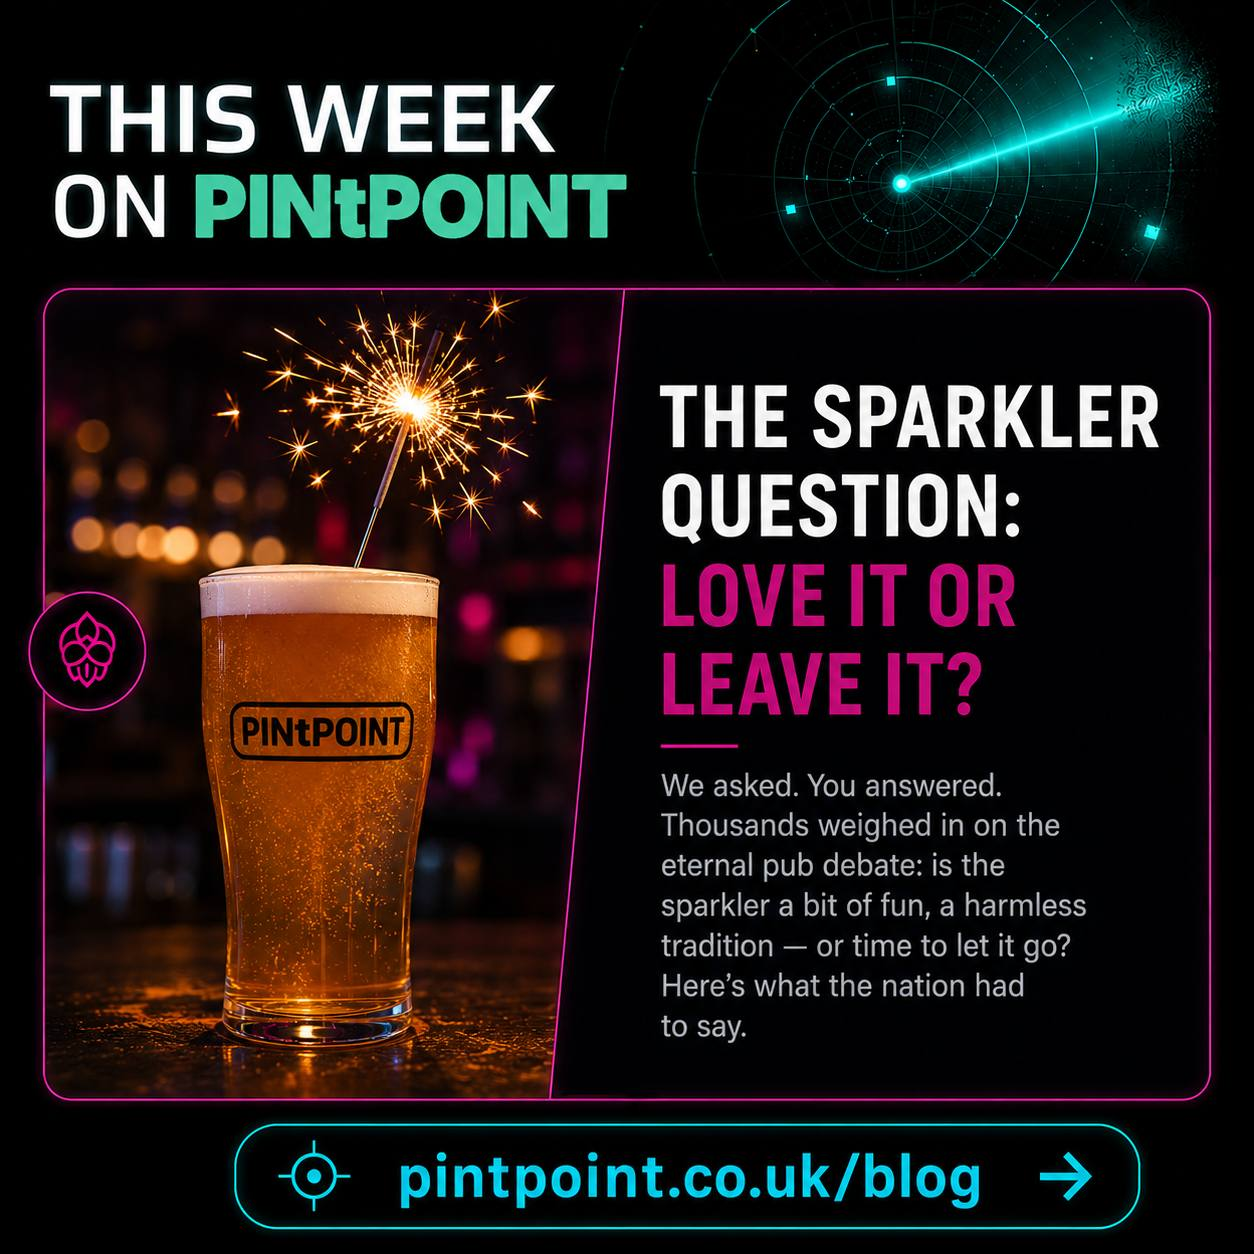
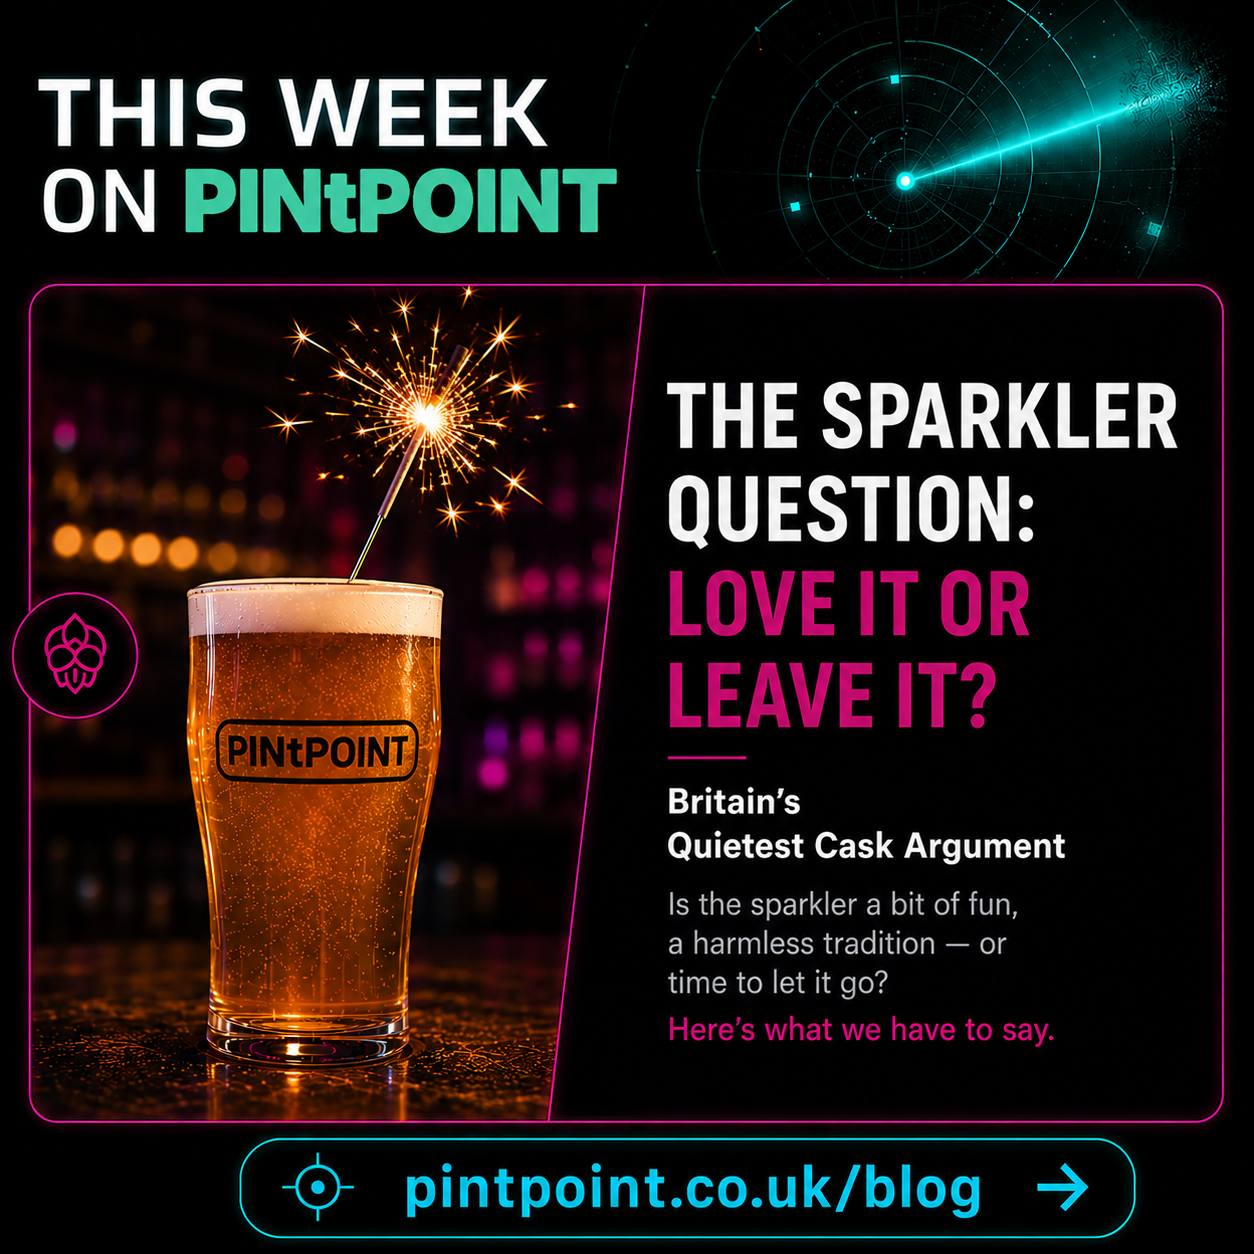
sparkler post: refresh card art (Britain's Quietest Cask Argument framing)
Card v2 swaps the bait-and-switch 'we asked / thousands weighed in' poll
copy for the actual essay framing — 'Britain's Quietest Cask Argument'
+ 'Here's what we have to say'. Matches body content (Southerner's
field guide, not poll results). Updated og:image:alt to match.

diff --git a/blog/the-sparkler-question.html b/blog/the-sparkler-question.html
@@ -14,7 +14,7 @@
   <meta property="og:title" content="The Sparkler Question — A Southerner's Field Guide" />
   <meta property="og:description" content="A small nozzle. A 140-year argument. The Whippet reposted Timothy Taylor's piece this week. A Southerner who's read about sparklers for years finally has somewhere in London to taste one." />
   <meta property="og:image" content="https://pintpoint.co.uk/blog/images/the-sparkler-question.jpg" />
-  <meta property="og:image:alt" content="This Week on PINtPOINT — The Sparkler Question: Love It or Leave It? A pint of cask ale with a lit sparkler in the head, PINtPOINT-typeset." />
+  <meta property="og:image:alt" content="This Week on PINtPOINT — The Sparkler Question: Love It or Leave It? Britain's Quietest Cask Argument. A pint of cask ale with a lit sparkler in the head, PINtPOINT-typeset." />
   <meta property="fb:app_id" content="1892965231402903" />
   <meta name="twitter:card" content="summary_large_image" />
   <link rel="preconnect" href="https://fonts.googleapis.com" />